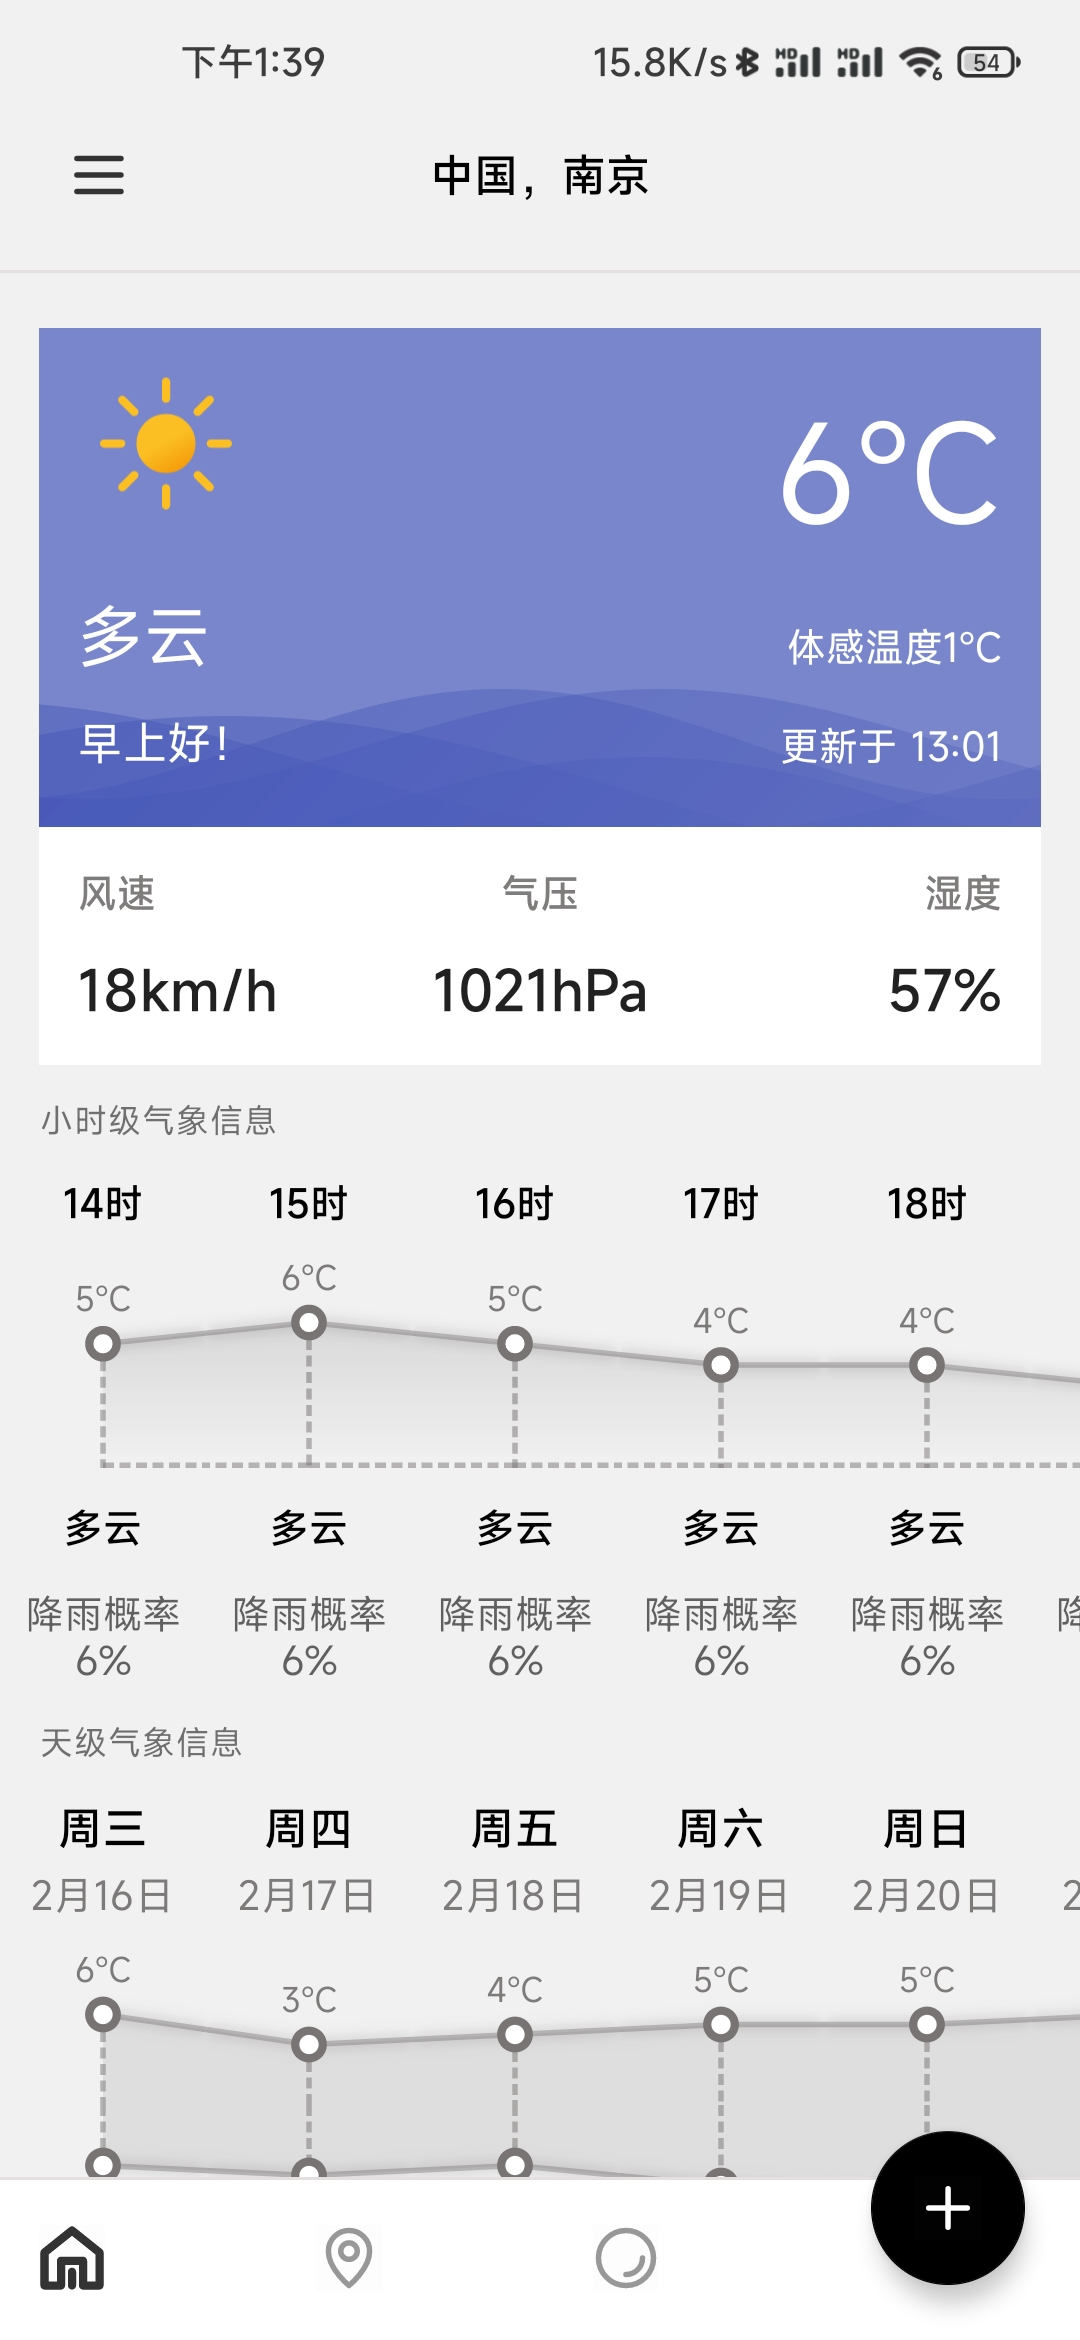
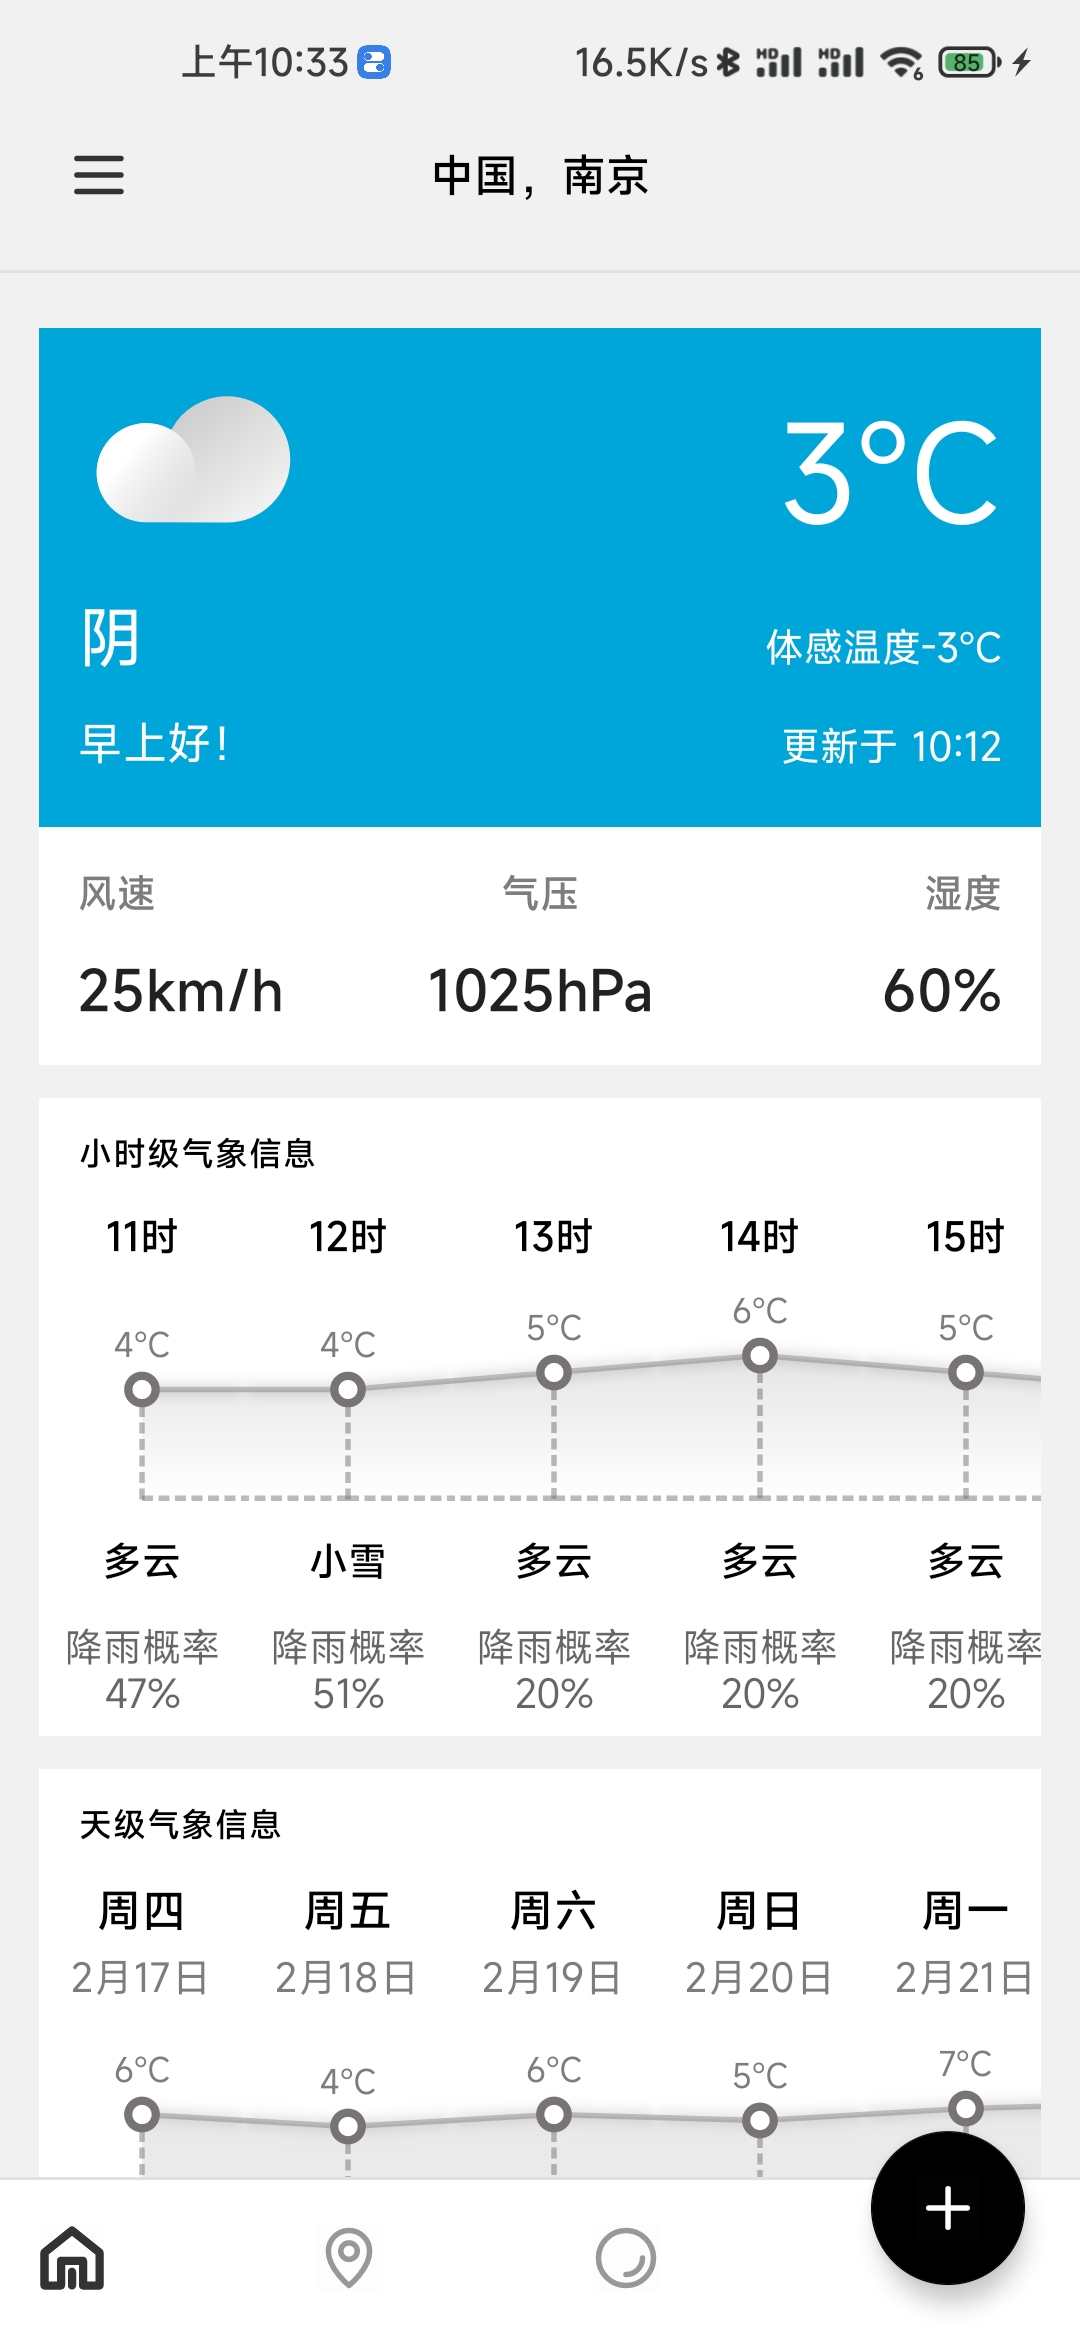
# 更新预览图

diff --git a/app/src/main/java/me/spica/weather/common/WeatherType.kt b/app/src/main/java/me/spica/weather/common/WeatherType.kt
@@ -1,5 +1,12 @@
 package me.spica.weather.common
 
+import android.graphics.Color
+import androidx.annotation.ColorInt
+import androidx.annotation.ColorRes
+import androidx.annotation.DrawableRes
+import me.spica.weather.R
+import timber.log.Timber
+
 enum class WeatherType {
     WEATHER_CLEAR,
     WEATHER_CLOUDY,
@@ -12,4 +19,41 @@ enum class WeatherType {
     WEATHER_HAIL,
     WEATHER_THUNDER,
     WEATHER_THUNDERSTORM
+}
+
+
+// 拓展方法 用于获取对应类型的图标
+@DrawableRes
+fun WeatherType.getIconRes(): Int {
+    Timber.e("getIconRes:"+this.name)
+   return when (this) {
+        WeatherType.WEATHER_CLEAR -> R.drawable.ic_sunny
+        WeatherType.WEATHER_CLOUDY -> R.drawable.ic_cloudly
+        WeatherType.WEATHER_CLOUD -> R.drawable.ic_cloudly
+        WeatherType.WEATHER_RAINY -> R.drawable.ic_rain
+        WeatherType.WEATHER_SNOW -> R.drawable.ic_snow
+        WeatherType.WEATHER_SLEET -> R.drawable.ic_rain
+        WeatherType.WEATHER_FOG -> R.drawable.ic_fog
+        WeatherType.WEATHER_HAZE -> R.drawable.ic_fog
+        WeatherType.WEATHER_HAIL -> R.drawable.ic_rain
+        WeatherType.WEATHER_THUNDER -> R.drawable.ic_thumb
+        WeatherType.WEATHER_THUNDERSTORM -> R.drawable.ic_rain_thumb
+    }
+}
+
+
+@ColorInt
+fun WeatherType.getThemeColor(): Int {
+   return when(this){
+        WeatherType.WEATHER_CLOUDY
+        -> Color.rgb(96, 121, 136)
+        WeatherType.WEATHER_CLOUD -> Color.rgb(0, 165, 217)
+        WeatherType.WEATHER_THUNDER -> Color.rgb(43, 29, 69)
+        WeatherType.WEATHER_FOG
+        -> Color.rgb(79, 93, 104)
+        WeatherType.WEATHER_HAZE -> Color.rgb(66, 66, 66)
+        else -> {
+            Color.parseColor("#7986CB")
+        }
+    }
 }

diff --git a/app/src/main/java/me/spica/weather/ui/home/HomeFragment.kt b/app/src/main/java/me/spica/weather/ui/home/HomeFragment.kt
@@ -16,6 +16,8 @@ import kotlinx.coroutines.withContext
 import me.spica.weather.R
 import me.spica.weather.base.BindingFragment
 import me.spica.weather.common.WeatherCodeUtils
+import me.spica.weather.common.getIconRes
+import me.spica.weather.common.getThemeColor
 import me.spica.weather.databinding.FragmentHomeBinding
 import me.spica.weather.tools.doOnMainThreadIdle
 import me.spica.weather.tools.show
@@ -110,19 +112,13 @@ class HomeFragment : BindingFragment<FragmentHomeBinding>() {
                     }
                     viewBinding.cardExtraInfo.root.show()
                     // 主题颜色
-                    val themeColor = WeatherCodeUtils.getThemeColor(
-                        WeatherCodeUtils
-                            .getWeatherCode(it.now.icon)
-                    )
+                    val themeColor = WeatherCodeUtils
+                        .getWeatherCode(it.now.icon).getThemeColor()
 
                     viewBinding.cardNowWeather.root.setBackgroundColor(themeColor)
 
                     viewBinding.cardNowWeather.icWeather.load(
-
-                        WeatherCodeUtils.getWeatherIcon(
-                            WeatherCodeUtils.getWeatherCode(it.now.icon ?: "")
-                        )
-
+                        WeatherCodeUtils.getWeatherCode(it.now.icon ?: "").getIconRes()
                     )
 
                     doOnMainThreadIdle({

diff --git a/app/src/main/java/me/spica/weather/ui/home/DailWeatherAdapter.kt b/app/src/main/java/me/spica/weather/ui/home/DailWeatherAdapter.kt
@@ -7,6 +7,7 @@ import androidx.recyclerview.widget.RecyclerView
 import coil.load
 import com.qweather.sdk.bean.weather.WeatherDailyBean
 import me.spica.weather.common.WeatherCodeUtils
+import me.spica.weather.common.getIconRes
 import me.spica.weather.databinding.ItemDayWeatherBinding
 import java.text.SimpleDateFormat
 import java.util.*
@@ -102,9 +103,7 @@ class DailWeatherAdapter : RecyclerView.Adapter<DailWeatherAdapter.ViewHolder>()
                 items[position]?.tempMin?.toInt() ?: 0
 
             holder.itemDayWeatherBinding.icon.load(
-                WeatherCodeUtils.getWeatherIcon(
-                    WeatherCodeUtils.getWeatherCode(items[position]?.iconDay ?: "")
-                )
+                WeatherCodeUtils.getWeatherCode(items[position]?.iconDay ?: "").getIconRes()
             )
 
             if (position == items.size - 1) {

diff --git a/app/src/main/java/me/spica/weather/common/WeatherCode.kt b/app/src/main/java/me/spica/weather/common/WeatherCode.kt
@@ -1,7 +1,5 @@
 package me.spica.weather.common
 
-import android.graphics.Color
-import androidx.annotation.ColorInt
 import androidx.annotation.DrawableRes
 import me.spica.weather.R
 
@@ -62,24 +60,7 @@ object WeatherCodeUtils {
     }
 
 
-    @ColorInt
-    fun getThemeColor(
-        weatherType: WeatherType,
-    ): Int {
 
-        return when (weatherType) {
-            WeatherType.WEATHER_CLOUDY
-            -> Color.rgb(96, 121, 136)
-            WeatherType.WEATHER_CLOUD -> Color.rgb(0, 165, 217)
-            WeatherType.WEATHER_THUNDER -> Color.rgb(43, 29, 69)
-            WeatherType.WEATHER_FOG
-            -> Color.rgb(79, 93, 104)
-            WeatherType.WEATHER_HAZE -> Color.rgb(66, 66, 66)
-            else -> {
-                Color.parseColor("#7986CB")
-            }
-        }
-    }
 
 
     @DrawableRes
